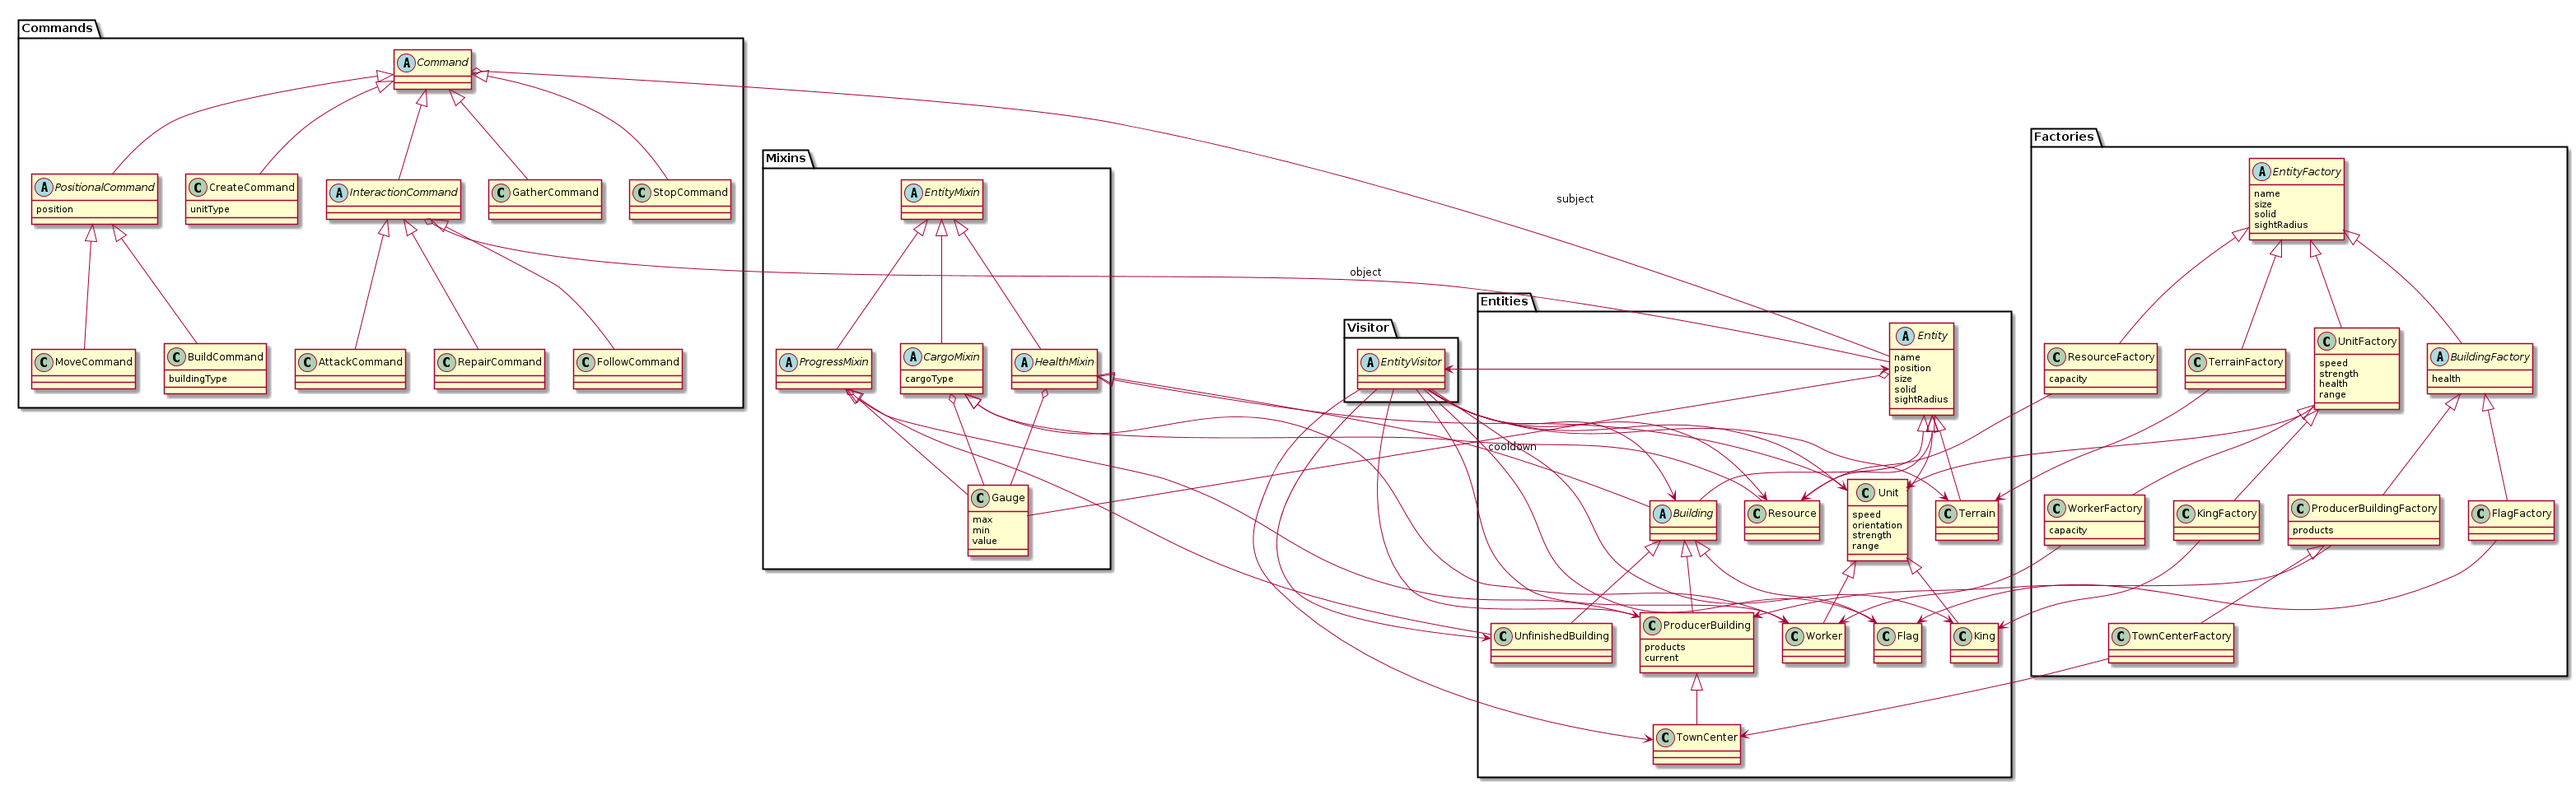
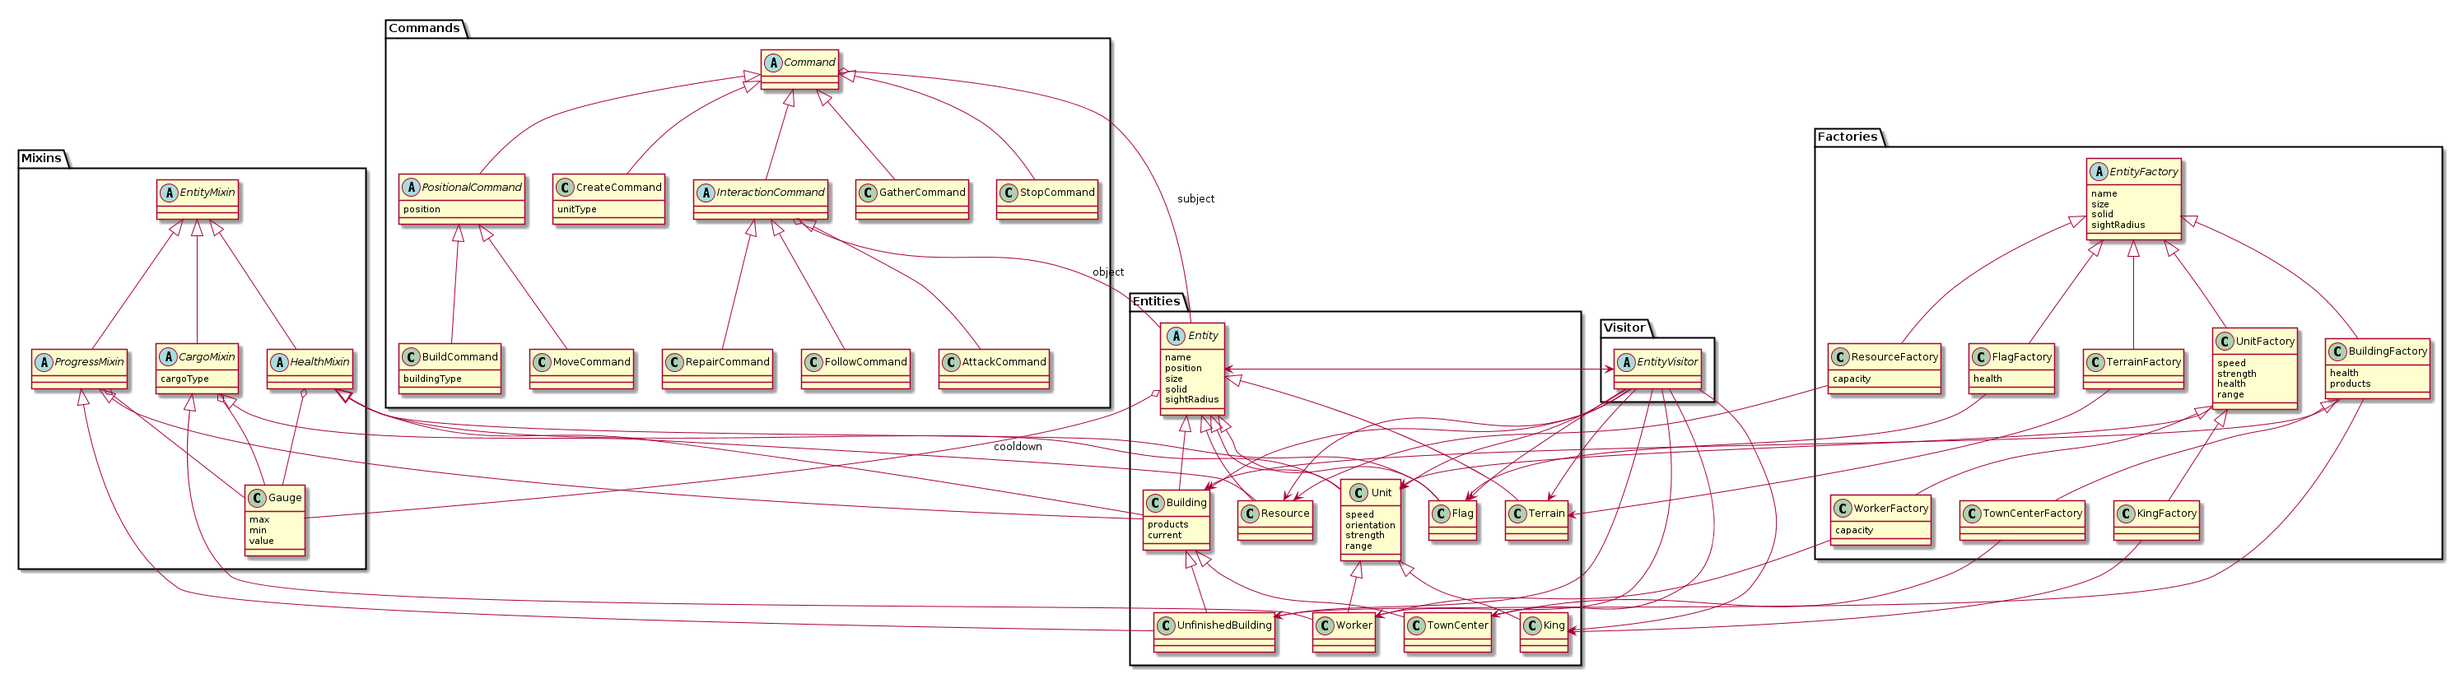
Paso Flag a Entity, saco ProducerBuilding

diff --git a/src/main/model/entity_factory.cpp b/src/main/model/entity_factory.cpp
@@ -58,28 +58,24 @@ std::shared_ptr<Entity> KingFactory::createEntity(Player& player, r2 position) {
 }
 
 
-BuildingFactory::BuildingFactory(std::string name, r2 size, int sight_radius, bool solid, int health, ABoard& board) :
+BuildingFactory::BuildingFactory(std::string name, r2 size, int sight_radius, bool solid, int health, std::map<std::string, std::map<std::string, unsigned int>> producerProducts, ABoard& board) :
 	EntityFactory(name, size, sight_radius, solid, board),
-	health(health)
-{}
-
-std::shared_ptr<Entity> BuildingFactory::createEntity(Player& player, r2 position) {
-	return std::make_shared<Building>(name, board, player, position, size, sight_radius, solid, health);
-}
-
-
-ProducerBuildingFactory::ProducerBuildingFactory(std::string name, r2 size, int sight_radius, bool solid, int health, std::map<std::string, std::map<std::string, unsigned int>> producerProducts, ABoard& board) :
-	BuildingFactory(name, size, sight_radius, solid, health, board),
+	health(health),
 	products(producerProducts)
 {}
 
-std::shared_ptr<Entity> ProducerBuildingFactory::createEntity(Player& player, r2 position) {
-	return std::make_shared<ProducerBuilding>(name, board, player, position, size, sight_radius, solid, health, products);
+std::shared_ptr<Entity> BuildingFactory::createEntity(Player& player, r2 position) {
+	return std::make_shared<Building>(name, board, player, position, size, sight_radius, solid, health, products);
+}
+
+std::shared_ptr<Entity> BuildingFactory::createUnfinished(Player& player, r2 position) {
+	return std::make_shared<UnfinishedBuilding>(name, board, player, position, size, sight_radius, solid, health);
 }
 
 
 FlagFactory::FlagFactory(std::string name, r2 size, int sight_radius, bool solid, int health, ABoard& board) :
-	BuildingFactory(name, size, sight_radius, solid, health, board)
+	EntityFactory(name, size, sight_radius, solid, board),
+	health(health)
 {}
 
 std::shared_ptr<Entity> FlagFactory::createEntity(Player& player, r2 position) {
@@ -88,7 +84,7 @@ std::shared_ptr<Entity> FlagFactory::createEntity(Player& player, r2 position) {
 
 
 TownCenterFactory::TownCenterFactory(std::string name, r2 size, int sight_radius, bool solid, int health, std::map<std::string, std::map<std::string, unsigned int>> producerProducts, ABoard& board) :
-	ProducerBuildingFactory(name, size, sight_radius, solid, health, producerProducts, board)
+	BuildingFactory(name, size, sight_radius, solid, health, producerProducts, board)
 {}
 
 std::shared_ptr<Entity> TownCenterFactory::createEntity(Player& player, r2 position) {

diff --git a/src/main/model/entity.cpp b/src/main/model/entity.cpp
@@ -396,9 +396,10 @@ void King::visit(EntityVisitor& e) {
 }
 
 
-Building::Building(std::string name, ABoard& board, Player& owner, r2 position, r2 size, int sight_radius, bool solid, int health) :
+Building::Building(std::string name, ABoard& board, Player& owner, r2 position, r2 size, int sight_radius, bool solid, int health, std::map<std::string, std::map<std::string, unsigned int>> producerProducts={}) :
 	Entity(name, board, owner, position, size, sight_radius, solid),
-	HealthMixin(health)
+	HealthMixin(health),
+	products(producerProducts)
 {}
 
 void Building::update() {
@@ -426,29 +427,13 @@ void UnfinishedBuilding::visit(EntityVisitor& e) {
 }
 
 
-ProducerBuilding::ProducerBuilding(std::string name, ABoard& board, Player& owner, r2 position, r2 size, int sight_radius, bool solid, int health, std::map<std::string, std::map<std::string, unsigned int>> producerProducts) :
-	Building(name, board, owner, position, size, sight_radius, solid, health),
-	products(producerProducts)
-{}
-
-void ProducerBuilding::update() {
-	Building::update();
-}
-
-ProducerBuilding::~ProducerBuilding() {
-}
-
-void ProducerBuilding::visit(EntityVisitor& e) {
-	e.visit(*this);
-}
-
-
 Flag::Flag(std::string name, ABoard& board, Player& owner, r2 position, r2 size, int sight_radius, bool solid, int health) :
-	Building(name, board, owner, position, size, sight_radius, solid, health)
+	Entity(name, board, owner, position, size, sight_radius, solid),
+	HealthMixin(health)
 {}
 
 void Flag::update() {
-	Building::update();
+	Entity::update();
 }
 
 void Flag::visit(EntityVisitor& e) {
@@ -457,7 +442,7 @@ void Flag::visit(EntityVisitor& e) {
 
 
 TownCenter::TownCenter(std::string name, ABoard& board, Player& owner, r2 position, r2 size, int sight_radius, bool solid, int health, std::map<std::string, std::map<std::string, unsigned int>> producerProducts) :
-	ProducerBuilding(name, board, owner, position, size, sight_radius, solid, health, producerProducts)
+	Building(name, board, owner, position, size, sight_radius, solid, health, producerProducts)
 {}
 
 void TownCenter::update() {
@@ -536,16 +521,12 @@ void EntityVisitor::visit(UnfinishedBuilding& u) {
 	visit((Building&)u);
 }
 
-void EntityVisitor::visit(ProducerBuilding& p) {
-	visit((Building&)p);
-}
-
 void EntityVisitor::visit(TownCenter& t) {
-	visit((ProducerBuilding&)t);
+	visit((Building&)t);
 }
 
 void EntityVisitor::visit(Flag& f) {
-	visit((Building&)f);
+	visit((Entity&)f);
 }
 
 void EntityVisitor::visit(Resource& r) {

diff --git a/src/main/gfx/selection_menu.cpp b/src/main/gfx/selection_menu.cpp
@@ -17,39 +17,35 @@ SelectionMenu::~SelectionMenu() {
 }
 
 void SelectionMenu::visit(Entity& entity) {
-	outText = outText + owner.completeLine(entity.name + "(" + entity.owner.name + ")", size.x);
+	outText += owner.completeLine(entity.name + "(" + entity.owner.name + ")", size.x);
 }
 void SelectionMenu::visit(Unit& entity) {
 	visit((Entity&)entity);
 	stringstream ss;
 	ss << "Salud: " << entity.health.get() << "/" << entity.health.max;
-	outText = outText + owner.completeLine(ss.str().c_str(), size.x);
+	outText += owner.completeLine(ss.str().c_str(), size.x);
 }
 void SelectionMenu::visit(Worker& entity) {
 	visit((Unit&)entity);
-	outText = outText + owner.completeLine("Recursos: (--/--)", size.x);
+	outText += owner.completeLine("Recursos: (--/--)", size.x);
 }
 void SelectionMenu::visit(Resource& entity) {
 	visit((Entity&)entity);
 	stringstream ss;
 	ss << "Capacidad: " << entity.cargo.get() << "/" << entity.cargo.max;
-	outText = outText + owner.completeLine(ss.str().c_str(), size.x);
+	outText += owner.completeLine(ss.str().c_str(), size.x);
 }
 void SelectionMenu::visit(Building& entity) {
 	visit((Entity&)entity);
 	stringstream ss;
 	ss << "Salud: " << entity.health.get() << "/" << entity.health.max;
-	outText = outText + owner.completeLine(ss.str().c_str(), size.x);
+	outText += owner.completeLine(ss.str().c_str(), size.x);
+	outText += owner.completeLine("Produccion: (--/--)", size.x);
 }
 void SelectionMenu::visit(UnfinishedBuilding& entity) {
 	visit((Building&)entity);
-	outText = outText + owner.completeLine("Progreso: (--/--)", size.x);
+	outText += owner.completeLine("Progreso: (--/--)", size.x);
 }
-void SelectionMenu::visit(ProducerBuilding& entity) {
-	visit((Building&)entity);
-	outText = outText + owner.completeLine("Produccion: (--/--)", size.x);
-}
-
 
 void SelectionMenu::draw() {
 	//Dibujo fondo
@@ -61,7 +57,7 @@ void SelectionMenu::draw() {
 	if (owner.font) {
 		if (owner.sController->getSelection().size() > 1) {
 			for (auto e : owner.sController->getSelection()) {
-				outText = outText + owner.completeLine(e->name + "(" + e->owner.name + ")", size.x);
+				outText += owner.completeLine(e->name + "(" + e->owner.name + ")", size.x);
 			}
 		}
 		else if (owner.sController->getSelection().size() == 1) {

diff --git a/src/main/model/entity.h b/src/main/model/entity.h
@@ -124,7 +124,8 @@ class King : public Unit {
 class Building : public Entity, public HealthMixin {
 	public:
 		virtual void update();
-		Building(std::string name, ABoard& board, Player& owner, r2 position, r2 size, int sight_radius, bool solid, int health);
+		Building(std::string name, ABoard& board, Player& owner, r2 position, r2 size, int sight_radius, bool solid, int health, std::map<std::string, std::map<std::string, unsigned int>> producerProducts);
+		std::map<std::string, std::map<std::string, unsigned int>> products;
 		virtual void visit(EntityVisitor& v);
 		virtual ~Building();
 };
@@ -136,23 +137,14 @@ class UnfinishedBuilding : public Building {
 		virtual void visit(EntityVisitor& v);
 };
 
-class ProducerBuilding : public Building { 
-	public:
-		virtual void update();
-		ProducerBuilding(std::string name, ABoard& board, Player& owner, r2 position, r2 size, int sight_radius, bool solid, int health, std::map<std::string, std::map<std::string, unsigned int>> producerProducts);
-		virtual void visit(EntityVisitor& v);
-		std::map<std::string, std::map<std::string, unsigned int>> products;
-		virtual ~ProducerBuilding();
-};
-
-class TownCenter : public ProducerBuilding {
+class TownCenter : public Building {
 	public:
 		void update();
 		TownCenter(std::string name, ABoard& board, Player& owner, r2 position, r2 size, int sight_radius, bool solid, int health, std::map<std::string, std::map<std::string, unsigned int>> producerProducts);
 		virtual void visit(EntityVisitor& v);
 };
 
-class Flag : public Building {
+class Flag : public Entity, public HealthMixin {
 	public:
 		void update();
 		Flag(std::string name, ABoard& board, Player& owner, r2 position, r2 size, int sight_radius, bool solid, int health);
@@ -187,7 +179,6 @@ class EntityVisitor {
 		virtual void visit(King& k);
 		virtual void visit(Building& b);
 		virtual void visit(UnfinishedBuilding& u);
-		virtual void visit(ProducerBuilding& p);
 		virtual void visit(TownCenter& t);
 		virtual void visit(Flag& f);
 		virtual void visit(Resource& r);

diff --git a/src/main/model/entity_factory.h b/src/main/model/entity_factory.h
@@ -61,24 +61,21 @@ public:
 class BuildingFactory: public EntityFactory {
 	public:
 		const int health;
-		BuildingFactory(std::string name, r2 size, int sight_radius, bool solid, int health, ABoard& board);
+		BuildingFactory(std::string name, r2 size, int sight_radius, bool solid, int health, std::map<std::string, std::map < std::string, unsigned int >> producerProducts, ABoard& board);
 		virtual std::shared_ptr<Entity> createEntity(Player& player, r2 position);
+		virtual std::shared_ptr<Entity> createUnfinished(Player& player, r2 position);
+		std::map<std::string, std::map < std::string, unsigned int >> products;
 };
 
-class FlagFactory: public BuildingFactory {
+
+class FlagFactory: public EntityFactory {
 	public:
+		const int health;
 		FlagFactory(std::string name, r2 size, int sight_radius, bool solid, int health, ABoard& board);
 		virtual std::shared_ptr<Entity> createEntity(Player& player, r2 position);
 };
 
-class ProducerBuildingFactory: public BuildingFactory {
-	public:
-		ProducerBuildingFactory(std::string name, r2 size, int sight_radius, bool solid, int health, std::map<std::string, std::map < std::string, unsigned int >> producerProducts, ABoard& board);
-		virtual std::shared_ptr<Entity> createEntity(Player& player, r2 position);
-		std::map<std::string, std::map < std::string, unsigned int >> products;
-};
-
-class TownCenterFactory: public ProducerBuildingFactory {
+class TownCenterFactory: public BuildingFactory {
 	public:
 		TownCenterFactory(std::string name, r2 size, int sight_radius, bool solid, int health, std::map<std::string, std::map < std::string, unsigned int >> producerProducts, ABoard& board);
 		virtual std::shared_ptr<Entity> createEntity(Player& player, r2 position);

diff --git a/src/main/model/board.cpp b/src/main/model/board.cpp
@@ -119,8 +119,9 @@ shared_ptr<EntityFactory> ABoard::createEntityFactory(string name, r2 size, doub
 		pFactory = make_shared<WorkerFactory>(name, size, speed, sight_radius, solid, health, workerProducts, *this); 
 	 } else if(behaviour == "king") {
 		pFactory = make_shared<KingFactory>(name, size, speed, sight_radius, solid, health, *this); 
-	 } else if (behaviour == "building") {
-		 pFactory = make_shared<BuildingFactory>(name, size, sight_radius, solid, health, *this); 
+	 } else if (behaviour == "building") { // TODO: Unificar con producer_building
+		 std::map<std::string, std::map<std::string, unsigned int>> producerProducts;
+		 pFactory = make_shared<BuildingFactory>(name, size, sight_radius, solid, health, producerProducts, *this); 
 	 } else if(behaviour == "producer_building") {
 		 std::map<std::string, std::map<std::string, unsigned int>> producerProducts;
 		 for (auto& p : products) {
@@ -130,7 +131,7 @@ shared_ptr<EntityFactory> ABoard::createEntityFactory(string name, r2 size, doub
 			 }
 			 producerProducts[p.nombre] = productCostos;
 		 }
-		pFactory = make_shared<ProducerBuildingFactory>(name, size, sight_radius, solid, health, producerProducts, *this); 
+		pFactory = make_shared<BuildingFactory>(name, size, sight_radius, solid, health, producerProducts, *this); 
 	 } else if(behaviour == "town_center") {
 		 std::map<std::string, std::map<std::string, unsigned int>> producerProducts;
 		 for (auto& p : products) {

diff --git a/src/main/gfx/command_menu.cpp b/src/main/gfx/command_menu.cpp
@@ -50,7 +50,7 @@ void CommandMenu::visit(Worker& entity) {
 	}
 	isVisibleWorker = true;
 }
-void CommandMenu::visit(ProducerBuilding& entity) {
+void CommandMenu::visit(Building& entity) {
 	if (!showOptions) {
 		visit((Entity&)entity);
 		outText = outText + owner.completeLine("[p] Producir", size.x);
@@ -122,3 +122,4 @@ std::string CommandMenu::intToString(int i) {
 	resultado = aux.str();
 	return resultado;
 }
+

diff --git a/src/main/gfx/health_bar.cpp b/src/main/gfx/health_bar.cpp
@@ -42,10 +42,7 @@ void HealthBar::visit(Building& entity) {
 	SDL_RenderFillRect(owner.owner.getRenderer(), &lineaSalud);
 }
 
-void HealthBar::visit(ProducerBuilding& entity) {
-	visit((Building&)entity);
-}
-
 void HealthBar::visit(UnfinishedBuilding& entity) {
 	visit((Building&)entity);
 }
+

diff --git a/src/main/gfx/command_menu.h b/src/main/gfx/command_menu.h
@@ -27,6 +27,6 @@ public:
 	virtual void visit(Entity& e);
 	virtual void visit(Unit& e);
 	virtual void visit(Worker& e);
-	virtual void visit(ProducerBuilding& e);
+	virtual void visit(Building& e);
 };
 #endif // __GFX_COMMAND_MENU_H__

diff --git a/src/main/gfx/selection_menu.h b/src/main/gfx/selection_menu.h
@@ -24,6 +24,5 @@ public:
 	virtual void visit(Resource& e);
 	virtual void visit(Building& e);
 	virtual void visit(UnfinishedBuilding& e);
-	virtual void visit(ProducerBuilding& e);
 };
 #endif // __GFX_SELECTION_MENU_H__

diff --git a/src/main/gfx/health_bar.h b/src/main/gfx/health_bar.h
@@ -14,7 +14,6 @@ public:
 	virtual void visit(Entity& e);
 	virtual void visit(Unit& e);
 	virtual void visit(Building& e);
-	virtual void visit(ProducerBuilding& e);
 	virtual void visit(UnfinishedBuilding& e);
 
 };
